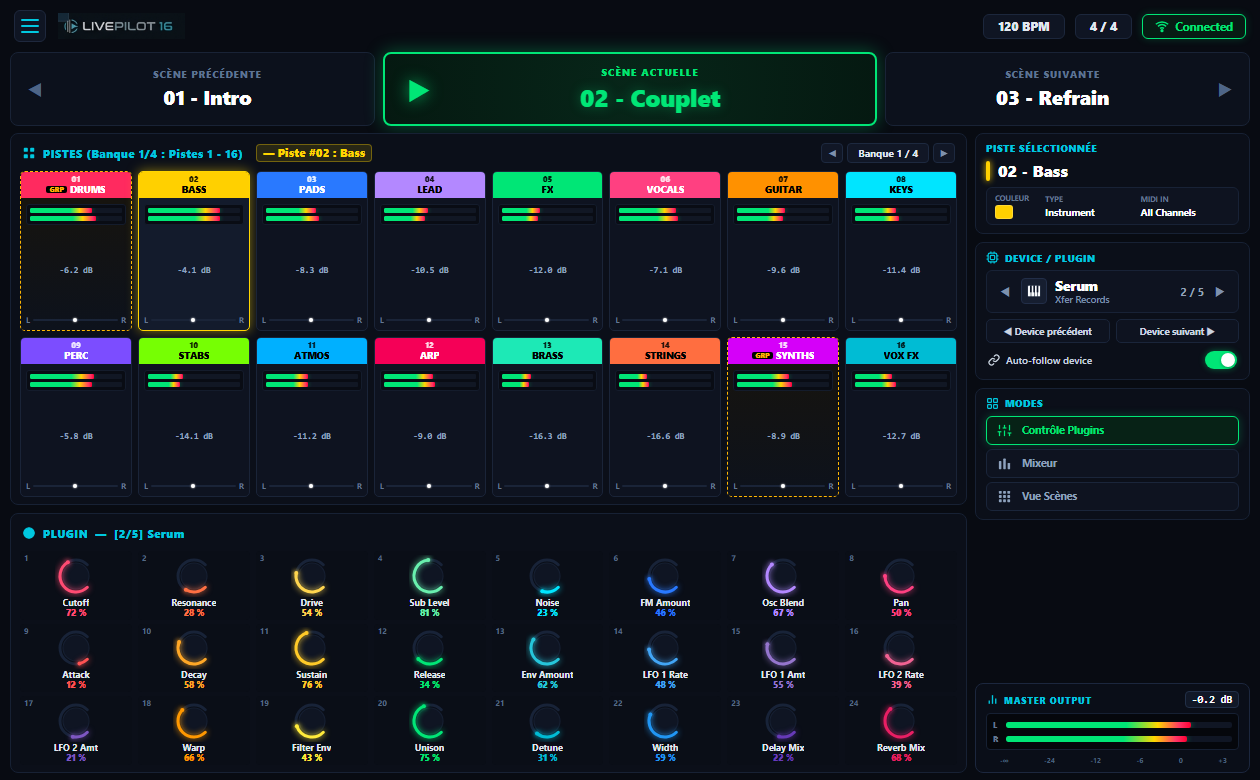
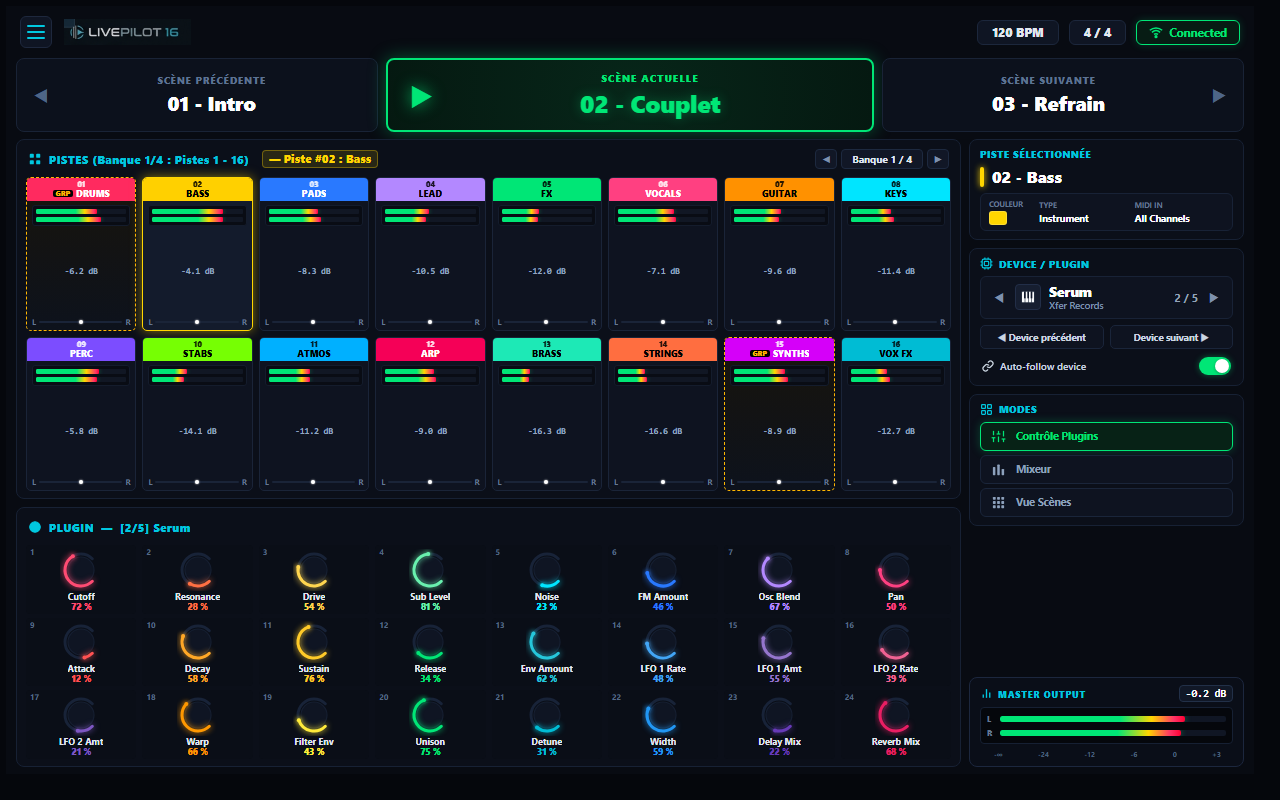
fix(ui): eliminate AI diffusion artifact and optimize track cards spacing and VU-meters for all 16 tracks

diff --git a/remote_script/LivePilot16/web/style.css b/remote_script/LivePilot16/web/style.css
@@ -369,12 +369,12 @@ html, body {
 }
 
 .track-top-banner {
-  height: 26px;
+  height: 23px;
   display: flex;
   flex-direction: column;
   align-items: center;
   justify-content: center;
-  font-size: 9.5px;
+  font-size: 9px;
   font-weight: 800;
   line-height: 1.1;
   text-transform: uppercase;
@@ -383,13 +383,13 @@ html, body {
 }
 
 .track-top-banner .trk-num {
-  font-size: 8px;
+  font-size: 7.5px;
   font-weight: 900;
   opacity: 0.85;
 }
 
 .track-top-banner .trk-name {
-  font-size: 9.5px;
+  font-size: 9px;
   font-weight: 900;
   overflow: hidden;
   text-overflow: ellipsis;
@@ -409,10 +409,10 @@ html, body {
 }
 
 .track-inner-body {
-  padding: 6px 5px 5px 5px;
+  padding: 4px 5px 3px 5px;
   display: flex;
   flex-direction: column;
-  gap: 5px;
+  gap: 3px;
   flex: 1;
   justify-content: space-between;
 }
